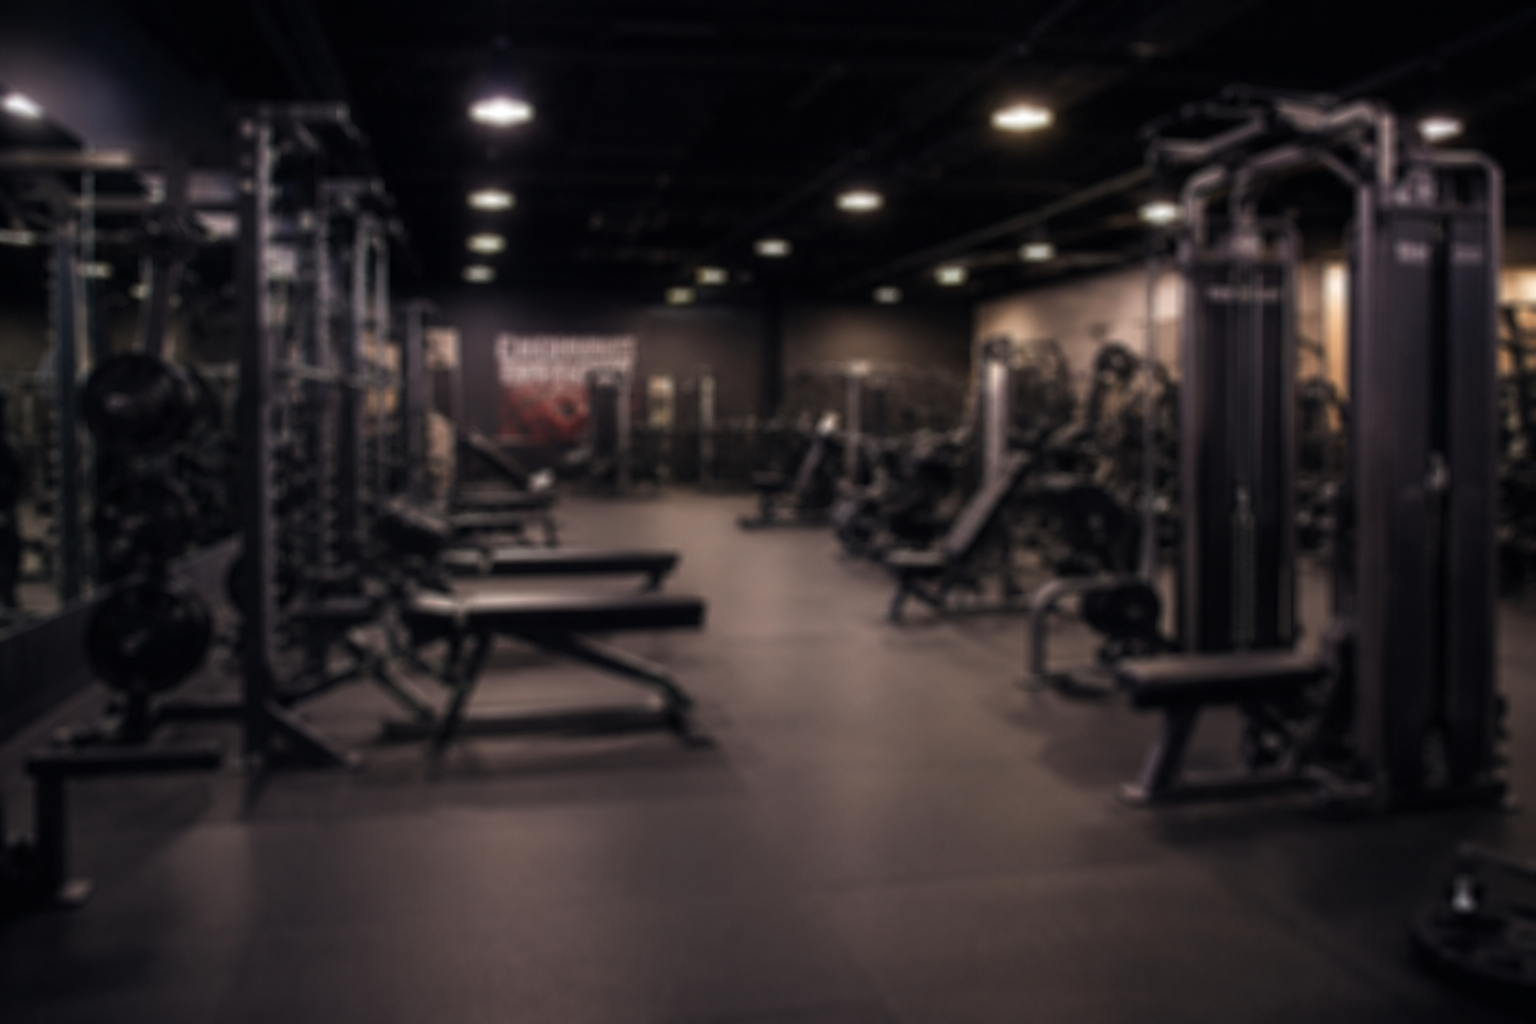
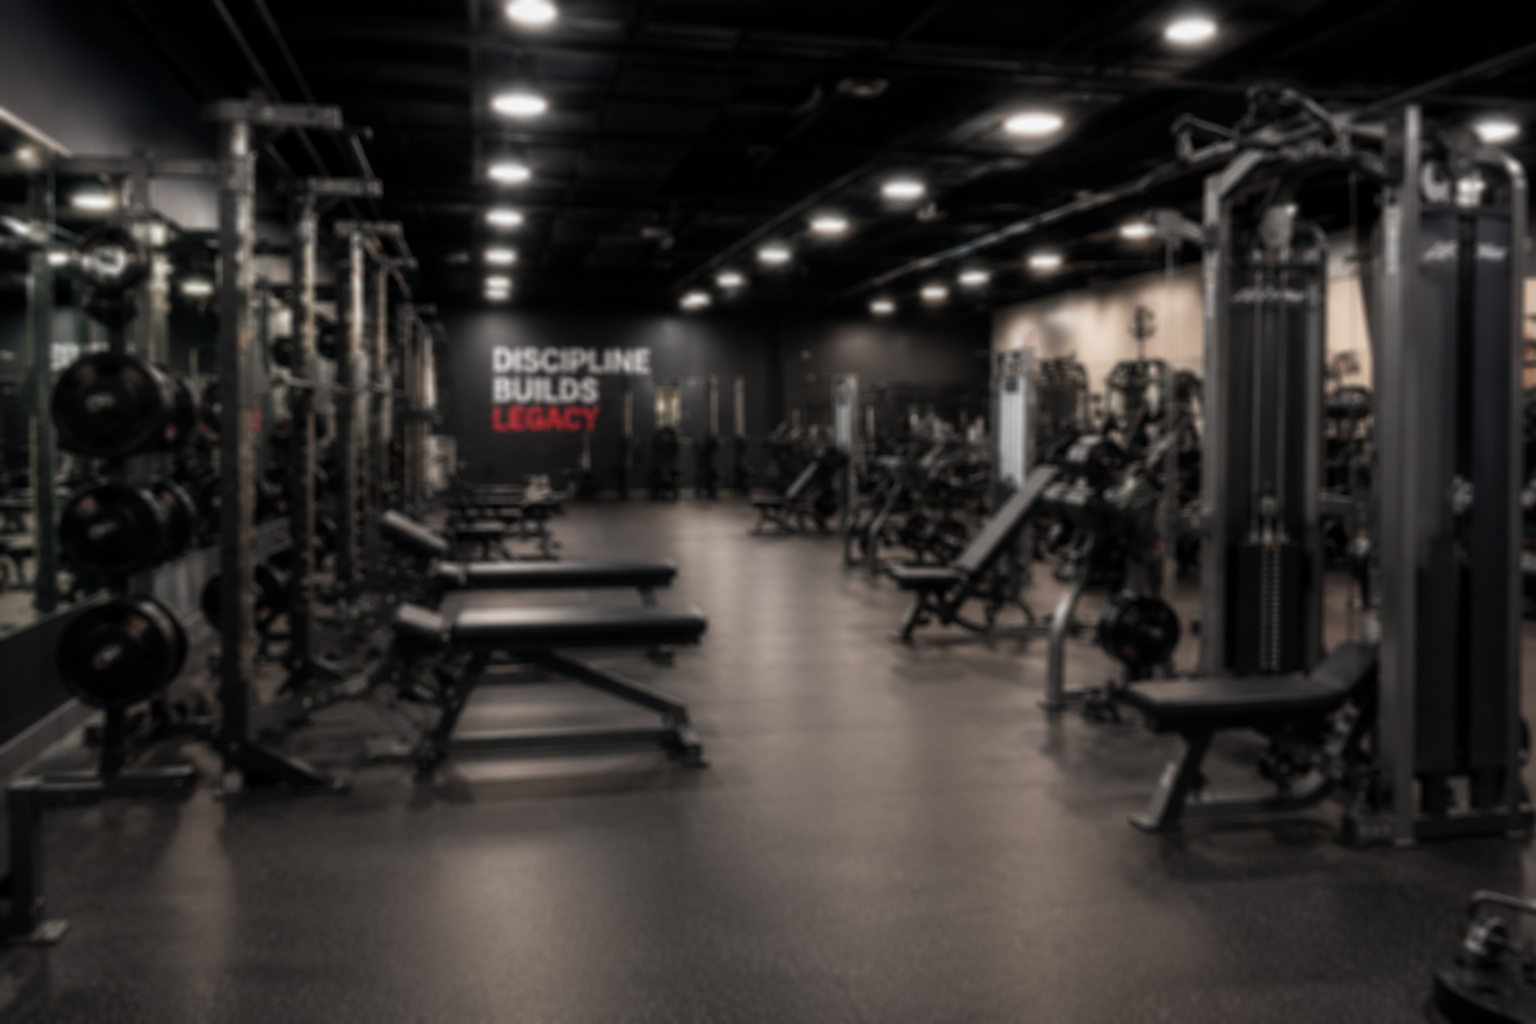
replaced bg

diff --git a/index.html b/index.html
@@ -5,7 +5,8 @@
     <link rel="preconnect" href="https://fonts.googleapis.com">
 <link rel="preconnect" href="https://fonts.gstatic.com" crossorigin>
 
-<link href="https://fonts.googleapis.com/css2?family=Metal+Mania&display=swap" rel="stylesheet">    <meta name="viewport" content="width=device-width, initial-scale=1.0">
+<link href="https://fonts.googleapis.com/css2?family=Metal+Mania&display=swap" rel="stylesheet">  
+<meta name="viewport" content="width=device-width, initial-scale=1.0">
     <title>𐎂𐎂 VATREX 𐎂𐎂</title>
     <link rel="stylesheet" href="css/style.css">
   </head>

diff --git a/css/style.css b/css/style.css
@@ -41,7 +41,7 @@ height:auto;
          transparent 100%    );   
     mask-image: radial-gradient( ellipse at center,   
     #000000 50%,
-    #d4050500 94% );
+    #d4050500 74% );
          overflow-x: hidden;
 }
 .logo{